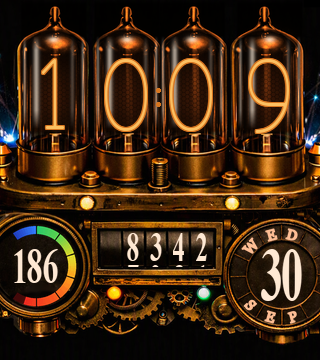
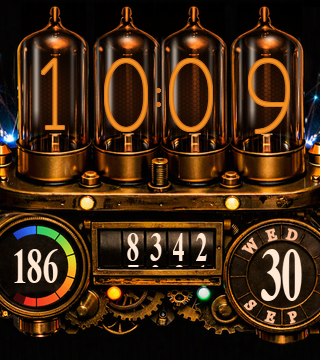
fix(ciq): the time digits ship the reference's own orange
The core shipped one step hotter than the reference (252,196,96) to buy
contrast - 7.5:1 against the amber glass where the reference's own core
measures 6.2:1 - and the user, looking at the watch, overruled the trade:
"The time display is not orange enough. It should be like the reference."

INK_TIME is now the reference's core (245,155,30): ink as seen
(242,145,32), hue 32 deg / sat 0.87 against the reference's 35 / 0.88, at
6.2:1 on the glyph core with a 5 px stroke. The ring is unchanged - it is
also what the separator dots and the halo edge read as, and the ladder
(artwork/ink_orange.png) showed the core alone decides the digit's colour.

Screenshots, hero and the store upload set regenerated; L67 records that a
device report outranks a rendered contrast measurement on the same axis.

diff --git a/ciq/ink_orange.py b/ciq/ink_orange.py
@@ -1,0 +1,64 @@
+"""Mockup: how orange the time digits should be. Decision support.
+
+The user, looking at the watch: "The time display is not orange enough. It should be like the
+reference." The shipped core (252,196,96) was deliberately one step HOTTER than the reference's own
+core (245,155,30, hue 35 deg / L 0.63) to buy contrast (7.5:1 vs 6.2:1). The device is the judge, so
+this renders the ladder from the shipped row to a saturated orange and measures each row's actual
+ink colour as seen, beside the reference's own numbers.
+
+Writes artwork/ink_orange.png (reference band + four rows, amber glass, SHIPPING background).
+"""
+import os
+
+import numpy as np
+from PIL import Image
+
+import amber_candidates as ac
+import device_colour
+
+HERE = os.path.dirname(os.path.abspath(__file__))
+OUT = os.path.join(HERE, "artwork", "ink_orange.png")
+
+# name -> (core, ring), AS SEEN (before the AMOLED pre-correction)
+INK = [
+    ("1  SHIPPED  core FC C460 / ring D6 781E", (252, 196, 96), (214, 120, 30)),
+    ("2  REFERENCE MATCH  core F5 9B1E / ring B6 6616", (245, 155, 30), (182, 102, 22)),
+    ("3  REF core + shipped ring  F5 9B1E / D6 781E", (245, 155, 30), (214, 120, 30)),
+    ("4  DEEP ORANGE  core F2 8C14 / ring C0 6010", (242, 140, 20), (192, 96, 16)),
+]
+
+
+def core_colour(bg, ink):
+    """Median sRGB of the digit's own ink as the panel shows it, off the eroded glyph core."""
+    import cv2
+    with_d = device_colour.as_seen(ac.render(bg, ink))
+    without = device_colour.as_seen(ac.render(bg, ink, hide_digits=True))
+    a = np.asarray(with_d, np.float32)
+    b = np.asarray(without, np.float32)
+    mask = ((np.abs(a - b).sum(2) > 24).astype(np.uint8)) * 255
+    mask = cv2.erode(mask, np.ones((3, 3), np.uint8))
+    px = a[mask > 0]
+    return np.median(px, axis=0), len(px)
+
+
+if __name__ == "__main__":
+    glass = dict(zip(("cast", "gamma", "lift"), ac.GLASS[1][1:]))          # B amber = shipping
+    bg = ac.build(glass["cast"], glass["gamma"], glass["lift"])
+    rows = []
+    print(f"{'row':50s} {'ink as seen':22s} {'hue/sat':12s} core-vs-glass  stroke")
+    for name, core, ring in INK:
+        face = device_colour.as_seen(ac.render(bg, (core, ring)))
+        med, n = core_colour(bg, (core, ring))
+        ratio, stroke = ac.legibility(bg, (core, ring))
+        mx, mn = max(med), min(med)
+        sat = (mx - mn) / max(mx, 1)
+        # hue of the ink as seen (r/g/b 0-255)
+        r, g, bl = med
+        hue = 60 * (((g - bl) / max(1.0, r - min(g, bl))) % 6) if r >= g >= bl else float("nan")
+        print(f"{name:50s} ({med[0]:4.0f},{med[1]:4.0f},{med[2]:4.0f})   "
+              f"{hue:4.0f} deg / {sat:.2f}   {ratio:5.1f}:1   {stroke:.0f} px")
+        rows.append((f"{name}   ink ({med[0]:.0f},{med[1]:.0f},{med[2]:.0f})"
+                     f"  {ratio:.1f}:1", face))
+    print("\nreference (measured off the user's AI render): core (245,155,30) hue 35 / L 0.63, "
+          "stroke body (182,102,22) hue 30 / L 0.44")
+    ac.sheet(rows, OUT, True)

diff --git a/ciq/tube_colour.py b/ciq/tube_colour.py
@@ -28,11 +28,16 @@ GEN_MC = os.path.join(HERE, "source", "TubeInk.mc")
 INK_TARGET = {
     # The wire is a single hot cathode. Measured off the user's second reference (the AI face render,
     # a warm amber tube band): core (245,155,30) at hue 35 deg / L 0.63, stroke body (182,102,22) at
-    # hue 30 / L 0.44, the glow spilling into the glass (117,61,11) at hue 28 / L 0.27. The pale
-    # cream core of the blue build read far less saturated than that, so the core moved to the
-    # reference's hot orange - the row rendered at 7.5:1 core-vs-glass against the amber glass, where
-    # the exact reference match measured 6.2:1 and the old pale ink 8.2:1.
-    "INK_TIME": (252, 196, 96),     # core: hot orange-white
+    # hue 30 / L 0.44, the glow spilling into the glass (117,61,11) at hue 28 / L 0.27.
+    #
+    # The core first shipped one step HOTTER than that (252,196,96) to buy contrast - 7.5:1 against
+    # the amber glass where the exact reference match measures 6.2:1 - and the user, looking at the
+    # watch, overruled the trade: "The time display is not orange enough. It should be like the
+    # reference." A device observation is the only measurement taken from the panel, so the core is
+    # now the reference's own (245,155,30): ink as seen (242,145,32), hue 32 deg / sat 0.87 against the
+    # reference's 35 / 0.88, still 6.2:1 on the glyph core with a 5 px stroke. The ring stays as it is,
+    # because it is also what the separator dots and the halo edge read as.
+    "INK_TIME": (245, 155, 30),     # core: the reference's own saturated orange
     # The glow is STATIC at the bright baseline (user decision): the ring no longer pulses, so it is
     # stored at the colour the pulse used to reach at its peak. No headroom is needed now that
     # nothing scales it. A 1 px halo around the glyph is most of what the digit's colour IS at this

diff --git a/docs/LESSONS_LEARNT.md b/docs/LESSONS_LEARNT.md
@@ -594,7 +594,13 @@ bounding-box average) is what says which element to change.
   carried (core-vs-glass ratio, stroke px) measured on the ERODED glyph core: pale cream ink 8.2:1,
   the exact reference match 6.2:1, and the shipped row 7.5:1. Matching the glass without matching the
   ink would have left a pale cream wire inside amber glass; matching the reference exactly would have
-  cost the most contrast - so the shipped core is one step hotter than the reference's own.
+  cost the most contrast - so the core first shipped one step hotter (7.5:1 against the retained ring).
+- **The user then overruled that trade on the wrist** - "the time display is not orange enough. It
+  should be like the reference" - and the contrast was not the binding constraint at all: the
+  reference's own core measures 6.2:1 on the glyph core at a 5 px stroke, and the panel called the
+  hotter row pale. Render the rung before shipping it, but take the DIRECTION from the wrist: a device
+  report is the only measurement taken from the panel side, and here it also settled that the RING
+  stays bright (it is what the separator dots and the halo edge read as) while only `INK_TIME` moves.
 
 **L68. The animated side sparks: emit from the PAINTED element's own core, fly the way the user says,
 and mirror the RNG in the device's exact order.** The user asked for the artwork's blue side sparks to
